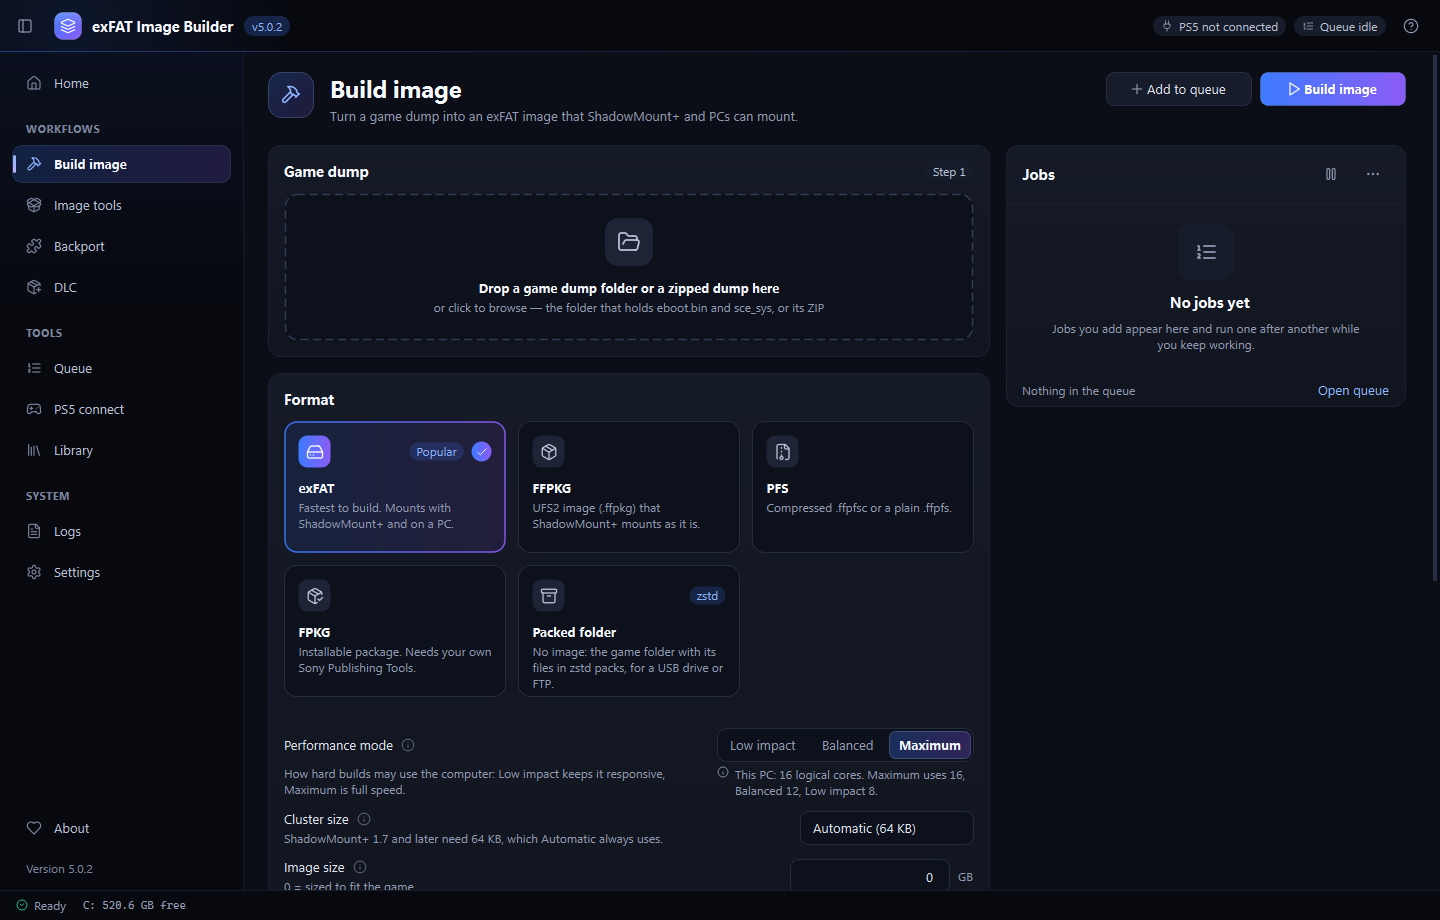
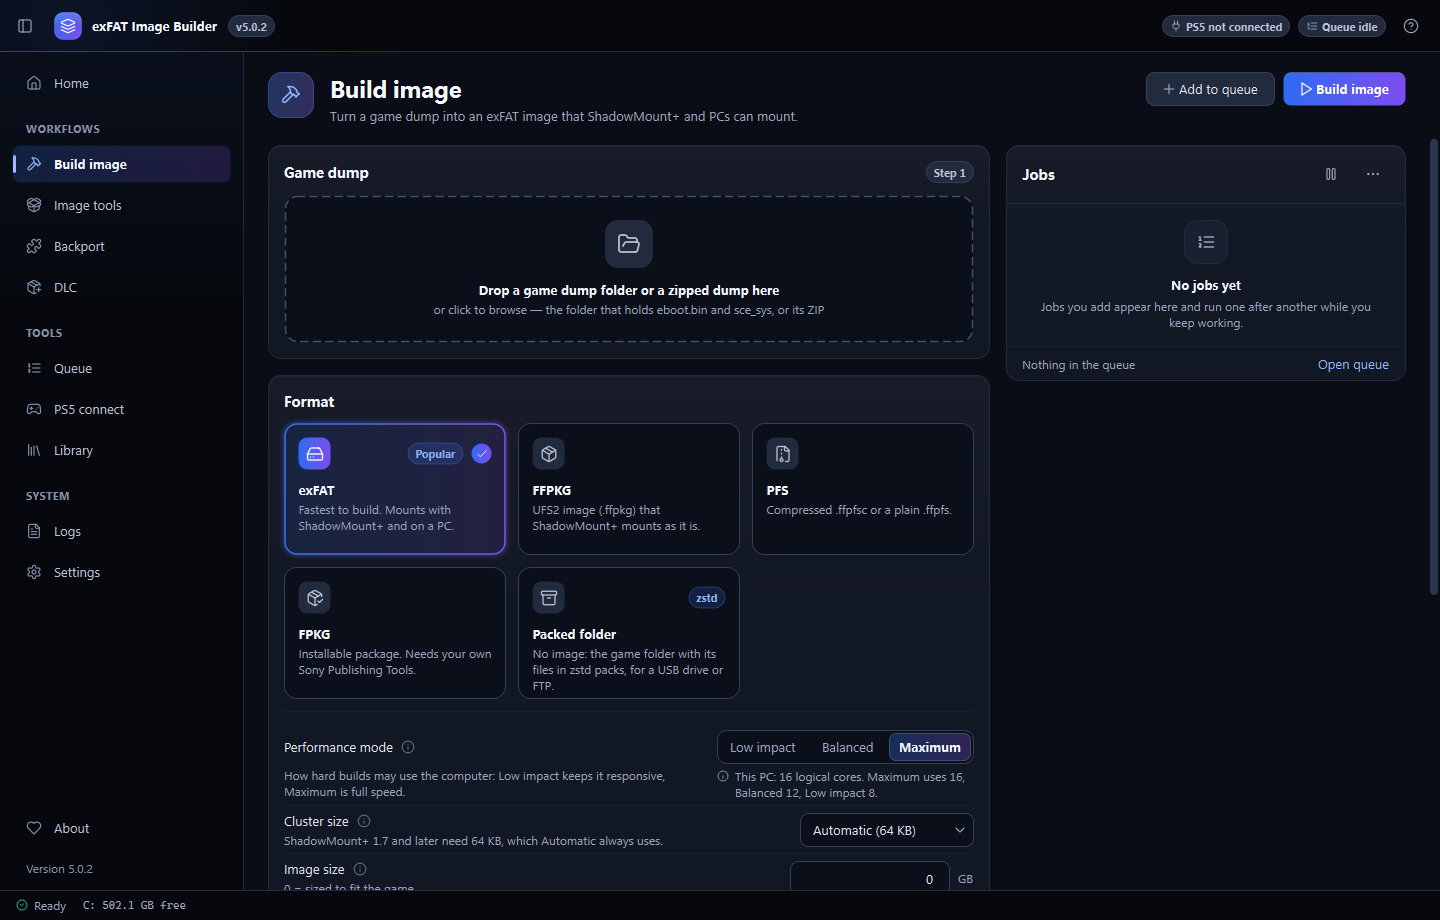
Design refresh: list settings show their start; release notes and README screenshots

diff --git a/native/src/app/ui/SettingRow.cpp b/native/src/app/ui/SettingRow.cpp
@@ -237,6 +237,8 @@ void SettingEditor::setValue(const QVariant& v)
                 s = QDir::toNativeSeparators(s);
         auto* e = static_cast<QLineEdit*>(m_control);
         e->setText(listText(items));
+        if (!e->hasFocus())
+            e->setCursorPosition(0); // a long list shows its start, not its tail
         e->setProperty("fwLast", listText(value().toStringList()));
         break;
     }

diff --git a/native/RELEASE_NOTES.md b/native/RELEASE_NOTES.md
@@ -103,7 +103,25 @@ stay valid.
   characters of the lines it does not change. "Safe to unplug" asks before it
   stops ShadowMount+. "Find my PS5" only searches private home networks.
 
-### Interface
+### Interface: a design refresh
+* **Depth and contrast**: cards lift off the page, fields read as wells, lines
+  and secondary text are easier to see, and buttons no longer look like fields.
+  White text on the blue-violet gradient and on red buttons now passes the
+  4.5:1 contrast mark.
+* **The page title and its main button stay in view** while a long form
+  scrolls, so "Build image" or "Start Backport" is always one click away. The
+  button's tooltip names the first thing that is still missing.
+* **Motion**: switches, segmented controls, hover states, progress bars, toasts
+  and dialogs now move, briefly and quietly. Windows' "show animations" setting
+  turns it all off.
+* **Games without cover art** get one of six colours from their title ID
+  instead of identical blocks; dropdowns show their arrow; empty lists are
+  compact and say what to do next.
+* **Job monitor**: larger percentage, clearer status line, a tinted result
+  block for success and failure.
+* Backport: status chips never cut their text, the selection links sit in one
+  group, shorter folder placeholders. Build: the two backport folders each get
+  the full width.
 * Text colours match the design again: links are blue, captions are dimmer than
   body text, errors red, confirmations green, and the separator lines are back.
 * Scrolling a page no longer changes a dropdown or number field under the
